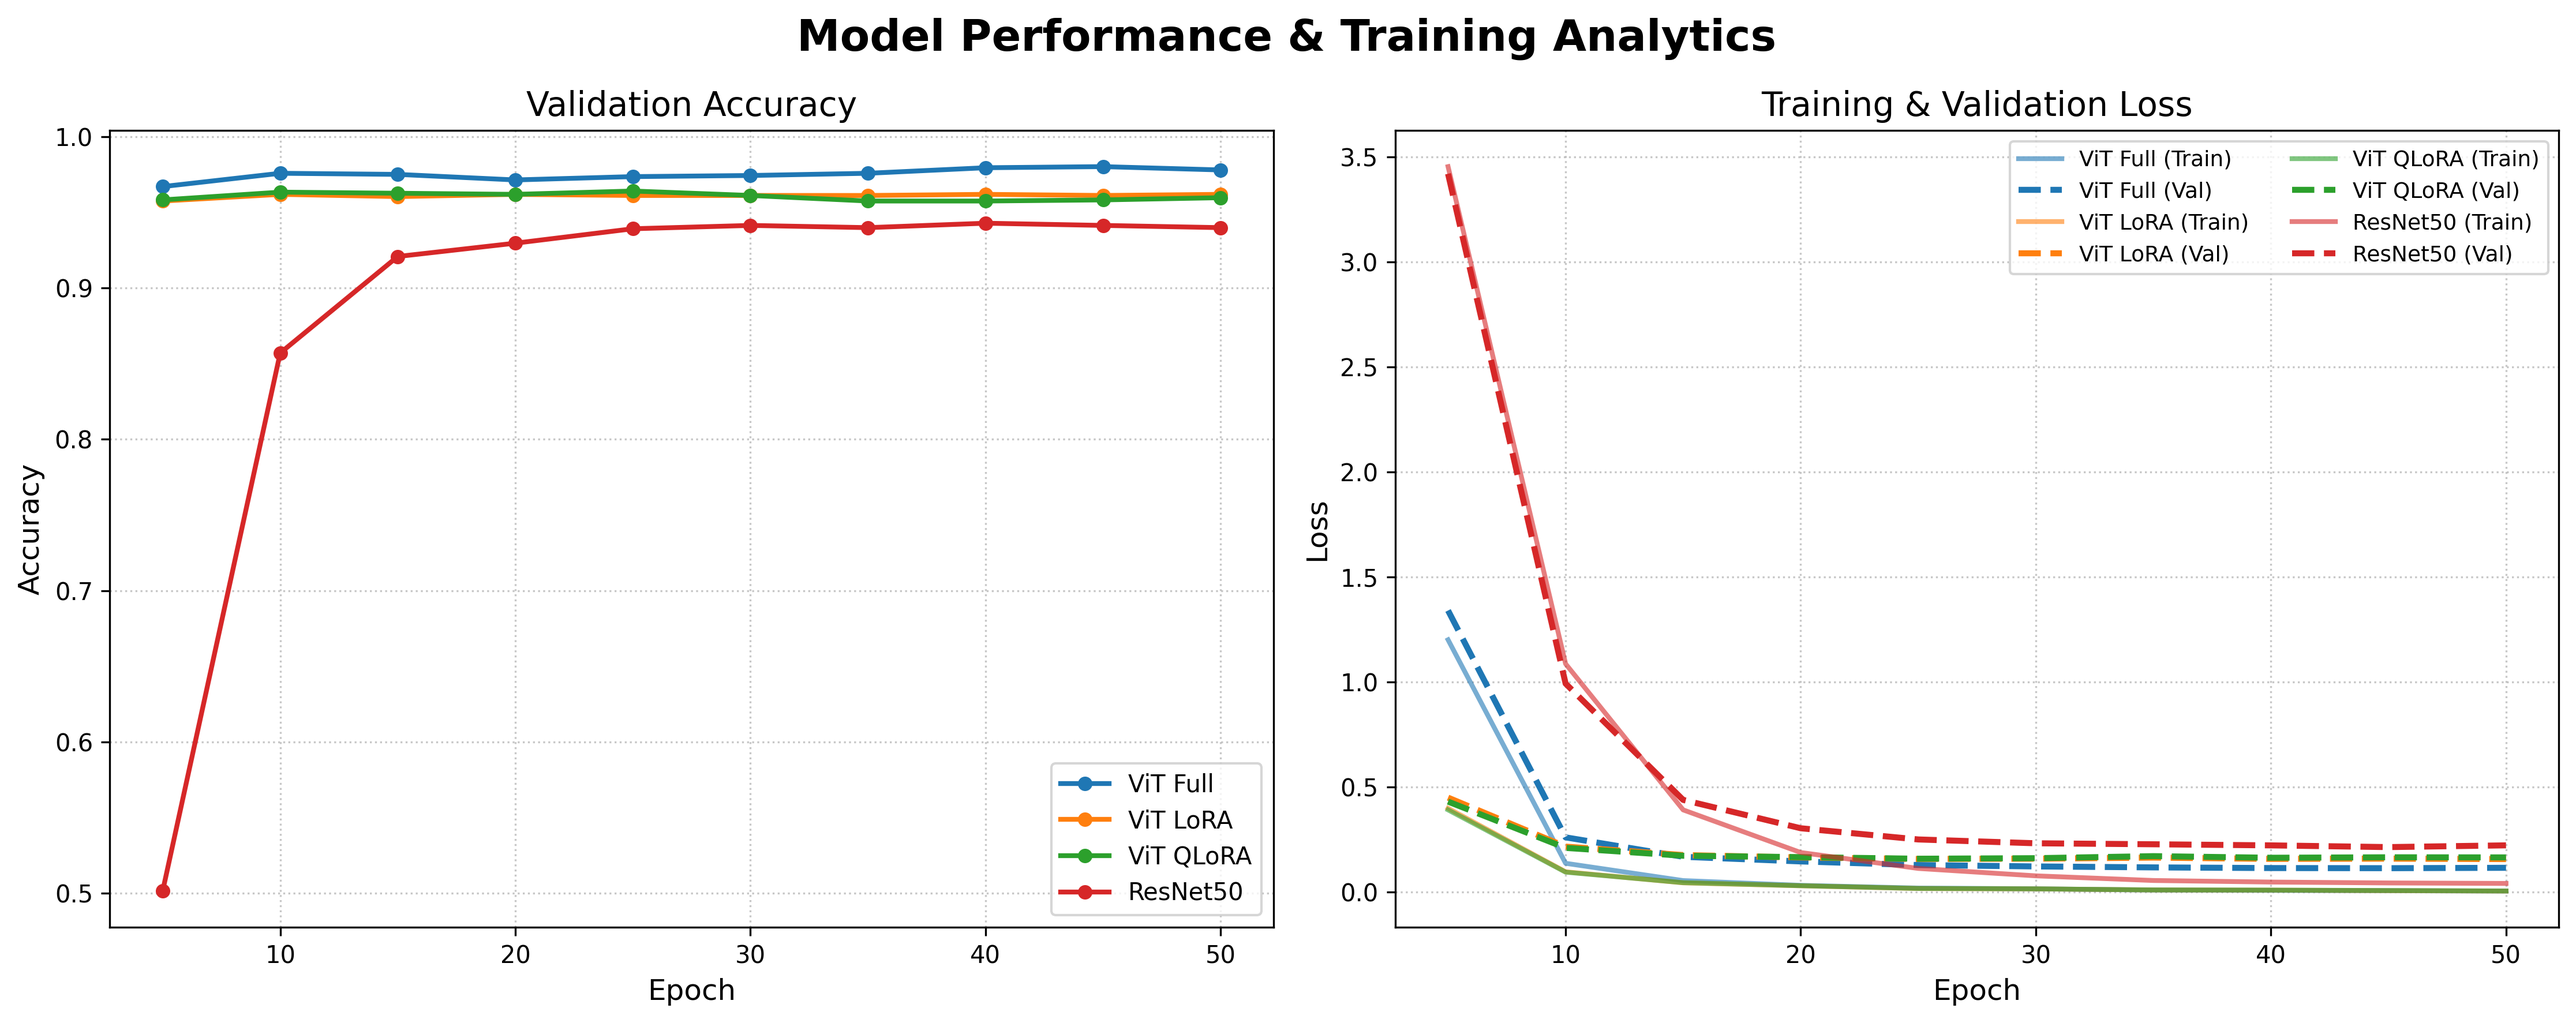
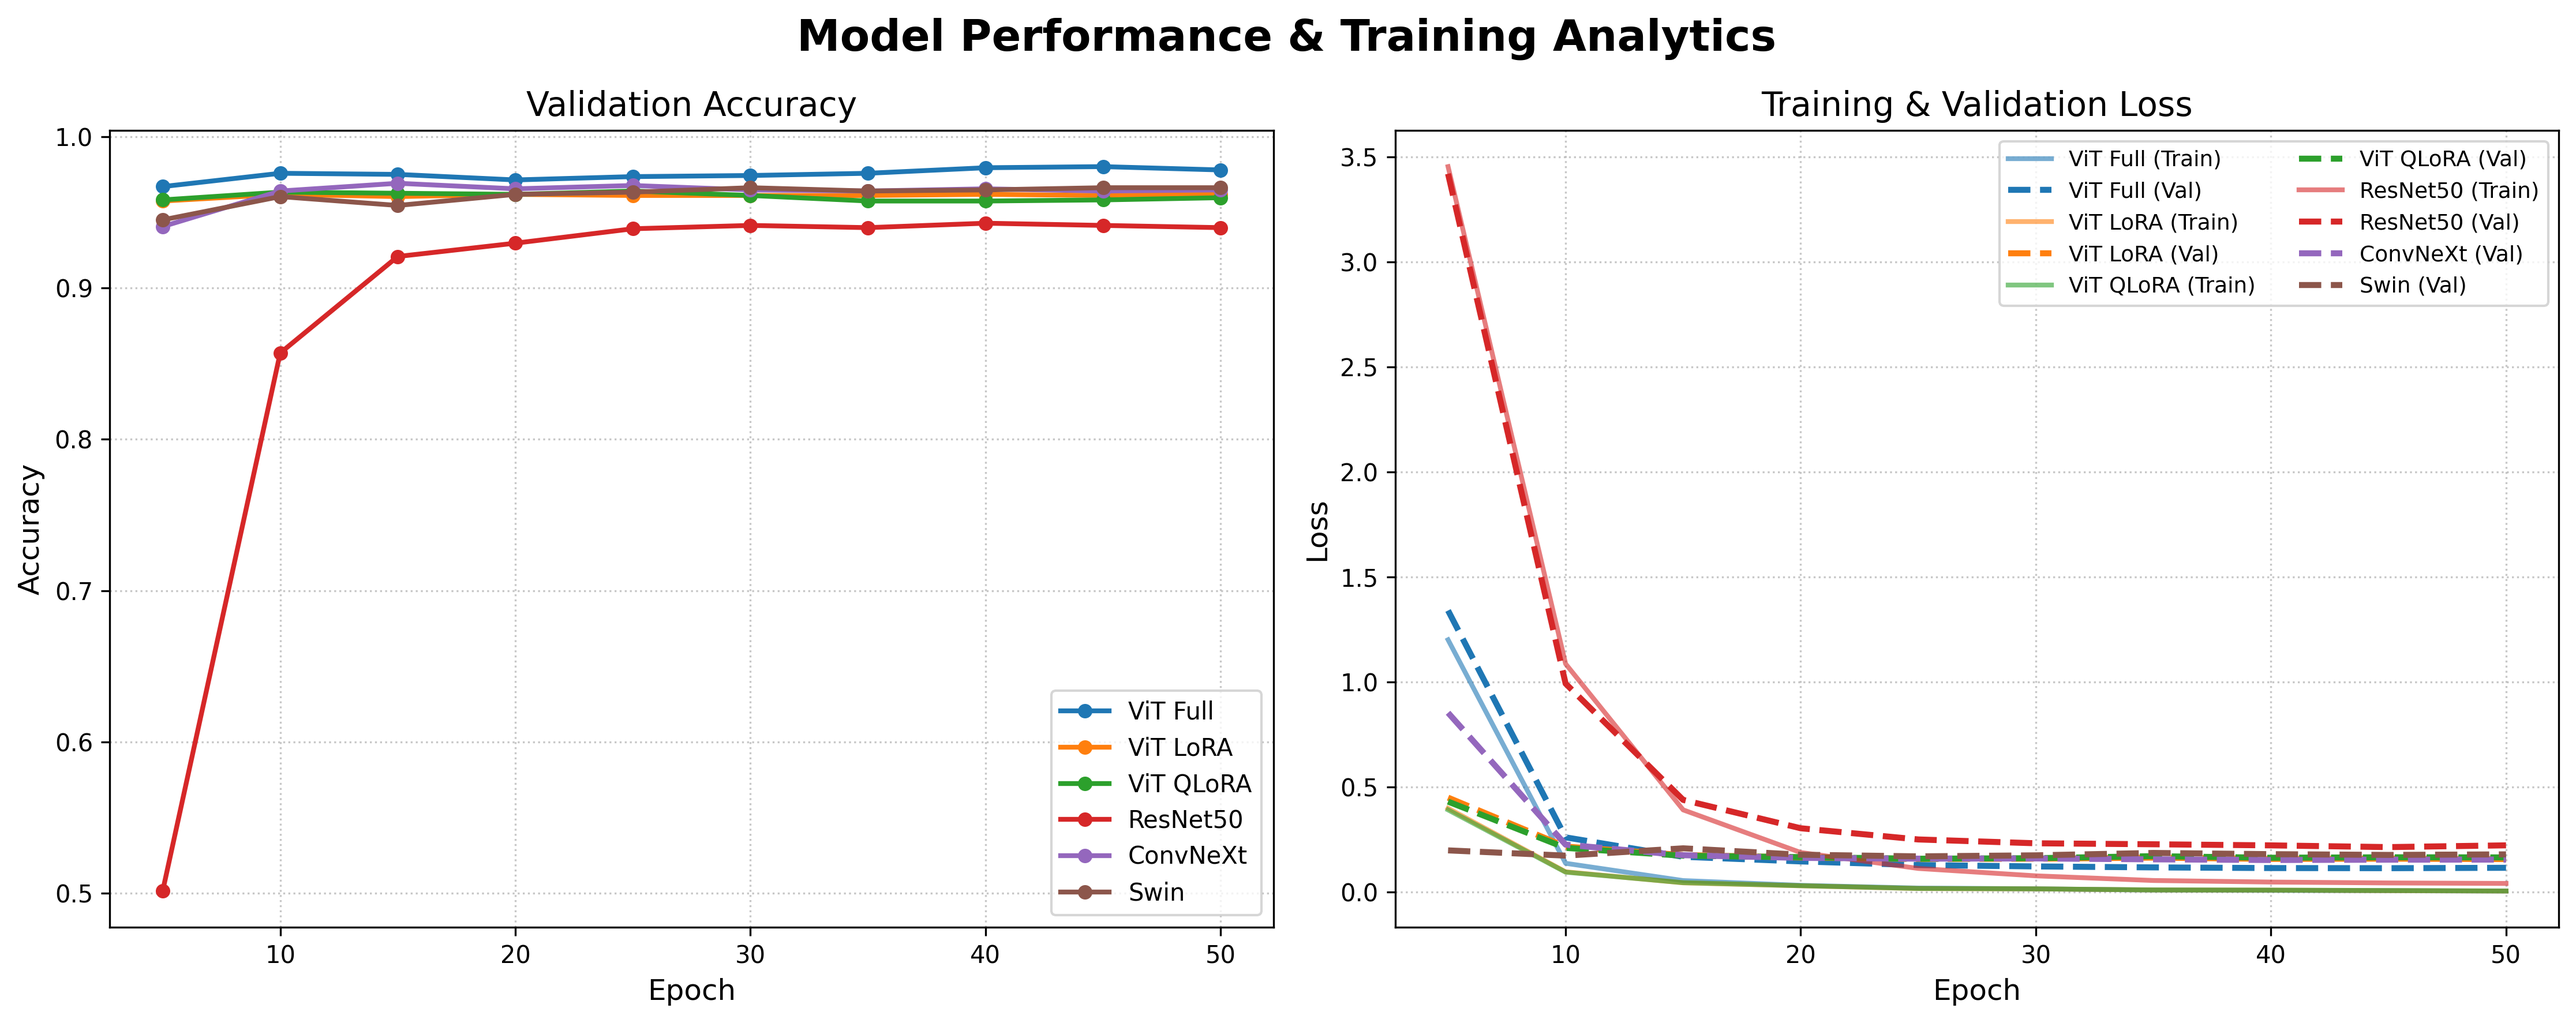
ConvNext & Swin models 추가

diff --git a/plot_results.py b/plot_results.py
@@ -10,10 +10,12 @@ experiments = {
     "ViT Full": "reports/experiment_results_vit_full.csv",
     "ViT LoRA": "reports/experiment_results_vit_lora.csv",
     "ViT QLoRA": "reports/experiment_results_vit_qlora.csv",
-    "ResNet50": "reports/experiment_results_resnet50.csv"
+    "ResNet50": "reports/experiment_results_resnet50.csv",
+    "ConvNeXt": "reports/experiment_results_convnext.csv",
+    "Swin": "reports/experiment_results_swin.csv"
 }
 
-colors = ['#1f77b4', '#ff7f0e', '#2ca02c', '#d62728'] # 파, 주, 초, 빨
+colors = ['#1f77b4', '#ff7f0e', '#2ca02c', '#d62728', '#9467bd', '#8c564b'] # 파, 주, 초, 빨, 보, 갈
 
 # 2. 그래프 그리기 (1행 2열 구조)
 # 2개의 그래프가 넉넉히 들어가도록 가로 길이를 20으로 늘립니다.

diff --git a/app.py b/app.py
@@ -116,7 +116,9 @@ MODEL_PATHS = {
     "ViT Full Fine-tuning": "./saved_model/best_vit_full",
     "ViT + LoRA": "./saved_model/best_vit_lora",
     "ViT + QLoRA (4-bit)": "./saved_model/best_vit_qlora",
-    "ResNet50": "./saved_model/best_resnet50_pokemon"
+    "ResNet50": "./saved_model/best_resnet50_pokemon",
+    "ConvNeXt": "./saved_model/best_convnext",
+    "Swin Transformer": "./saved_model/best_swin"
 }
 
 # 5. 설정 및 입력 영역 (깔끔한 컨테이너 UI)

diff --git a/evaluate_metrics.py b/evaluate_metrics.py
@@ -20,7 +20,9 @@ models_to_evaluate = {
     "ResNet50": "./saved_model/best_resnet50_pokemon",
     "ViT_Full": "./saved_model/best_vit_full",
     "ViT_LoRA": "./saved_model/best_vit_lora",
-    "ViT_QLoRA": "./saved_model/best_vit_qlora"
+    "ViT_QLoRA": "./saved_model/best_vit_qlora",
+    "ConvNeXt": "./saved_model/best_convnext",
+    "Swin": "./saved_model/best_swin"
 }
 
 dataset_path = "./PokemonData"
